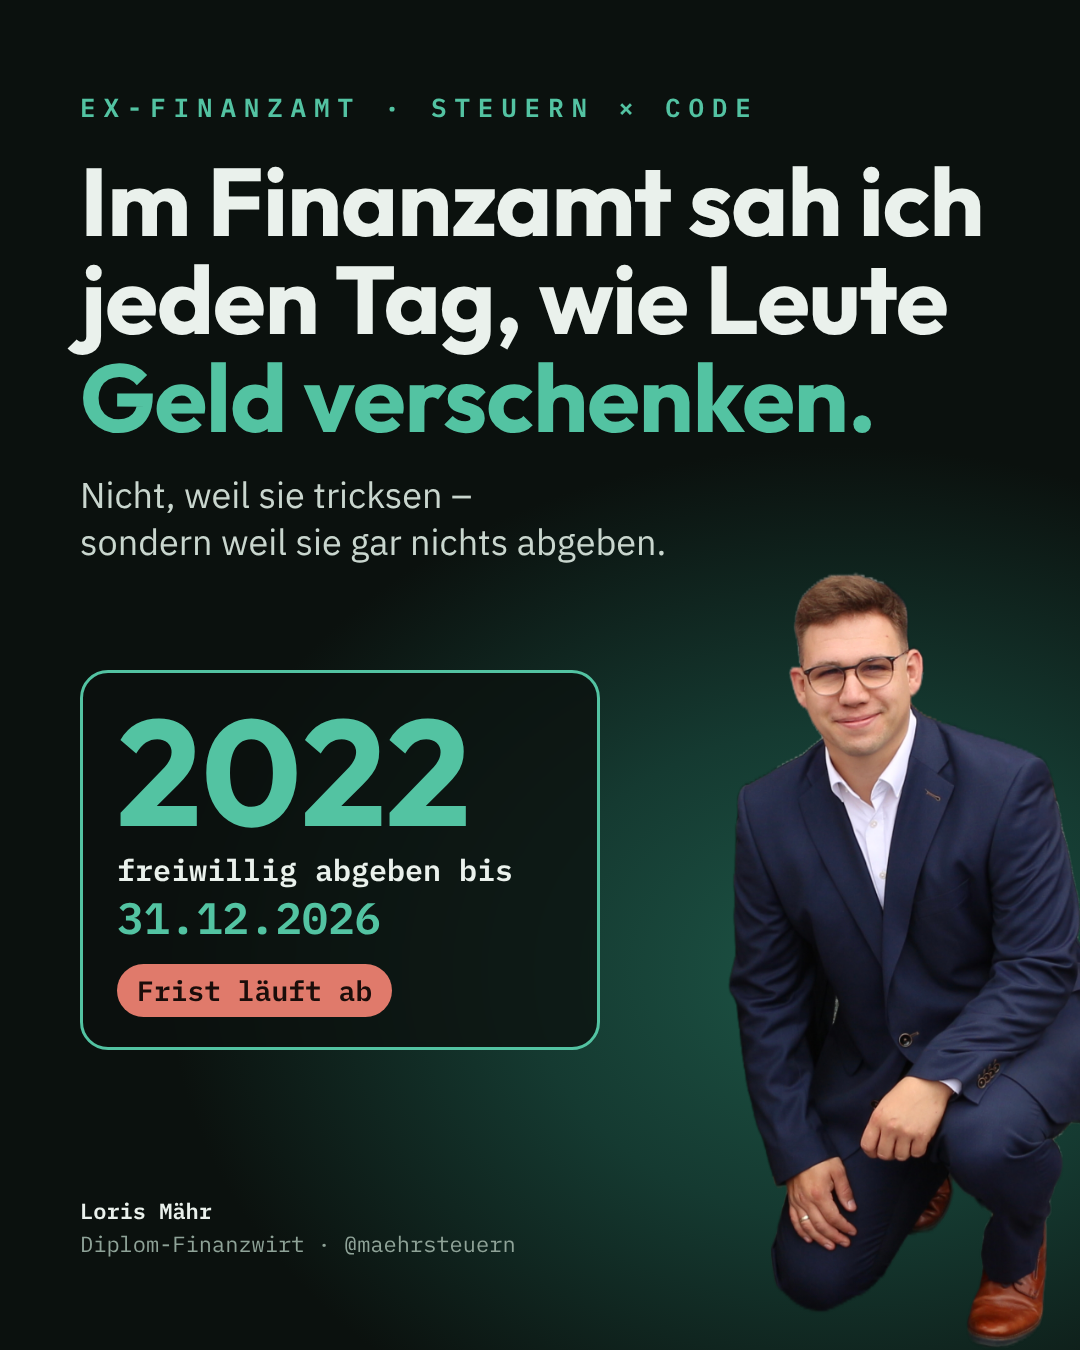
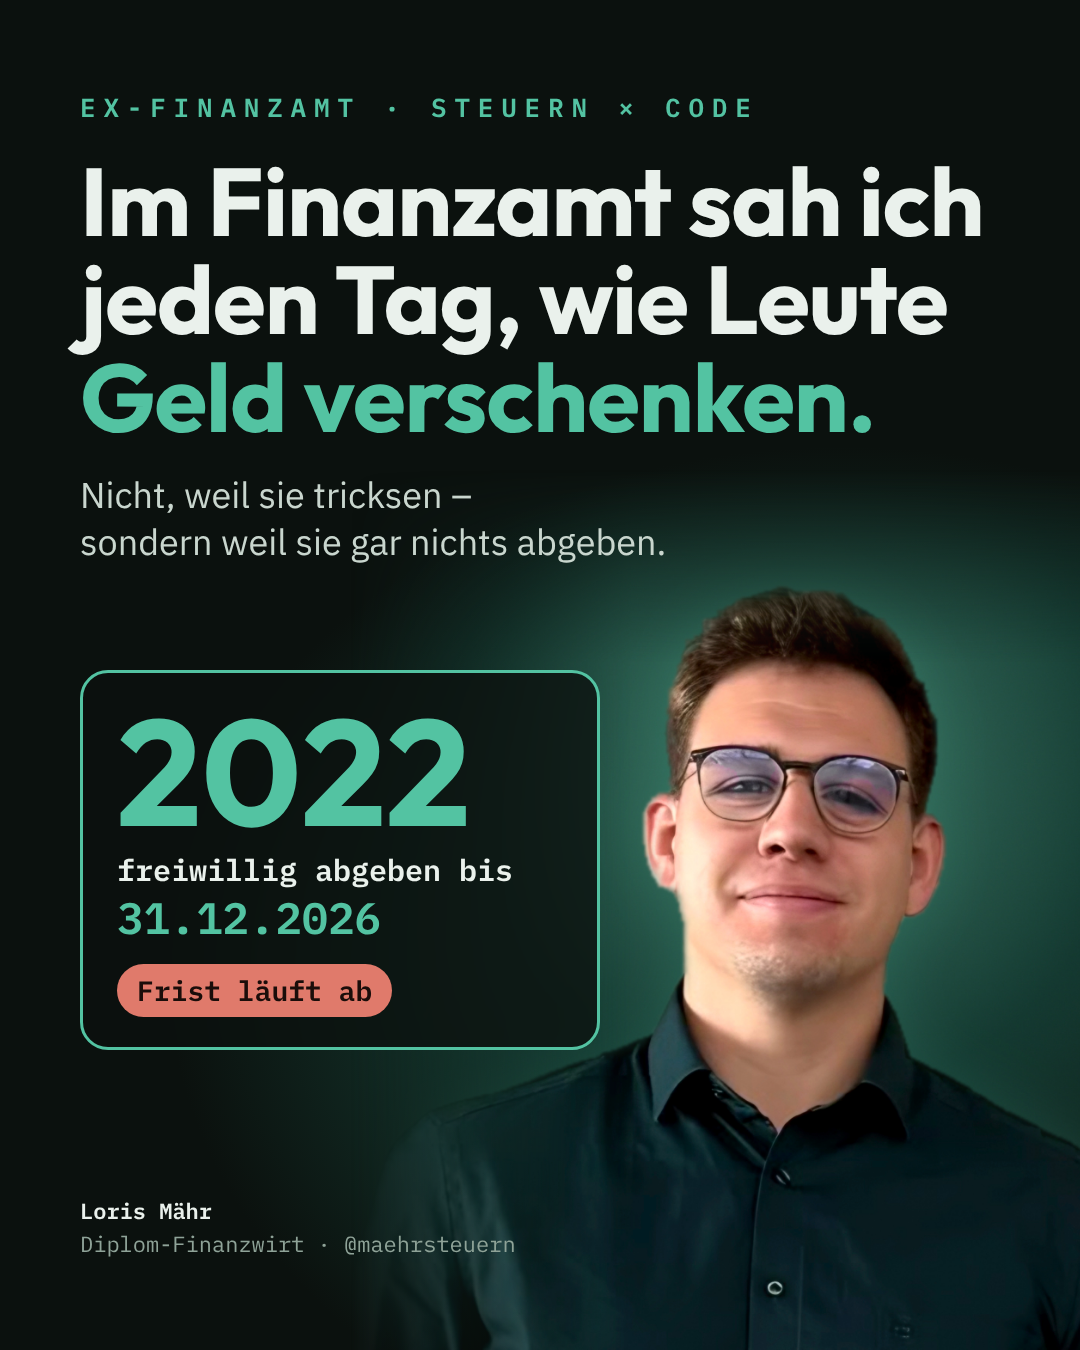
LinkedIn-Bild mit aktuellem Headshot (15.10.)
Claude-Session: https://claude.ai/code/session_01NYGauz67eVb3cVSYC53BS3

Changed region(s): [[0.4889, 0.4044, 1.0, 1.0], [0.4278, 0.8711, 0.5194, 1.0]]

diff --git a/vorlagen/system/linkedin_bild.html b/vorlagen/system/linkedin_bild.html
@@ -4,7 +4,7 @@
 @font-face{font-family:"Outfit";src:url("schriften/Outfit-Bold.ttf");font-weight:700}
 body{width:1080px;height:1350px;position:relative;
   background:radial-gradient(900px 700px at 78% 72%, #1d5546 0%, var(--bg2) 35%, var(--bg) 75%)}
-.foto{position:absolute;right:-40px;bottom:0;height:780px}
+.foto{position:absolute;right:-150px;bottom:0;width:880px;height:880px;object-fit:cover;-webkit-mask-image:linear-gradient(to right,transparent 0%,#000 32%),linear-gradient(to bottom,transparent 0%,#000 22%);-webkit-mask-composite:source-in;mask-composite:intersect}
 .oben{position:absolute;left:80px;top:90px;right:80px}
 .kicker{font-size:26px}
 h1{font-family:"Outfit",var(--sans);font-weight:700;font-size:96px;line-height:1.02;margin:28px 0 0;letter-spacing:-.01em}
@@ -18,7 +18,7 @@ h1 .a{color:var(--gruen)}
 .fuss{position:absolute;left:80px;bottom:90px;font-family:var(--mono);font-size:22px;line-height:1.5;color:var(--grau)}
 .fuss b{color:var(--text)}
 </style></head><body>
-<img class="foto" src="../../assets/marke/loris_aktuell_freisteller.png">
+<img class="foto" src="../../assets/marke/loris_headshot_1.jpg">
 <div class="oben">
   <div class="kicker">Ex-Finanzamt · Steuern × Code</div>
   <h1>Im Finanzamt sah ich jeden Tag, wie Leute <span class="a">Geld verschenken.</span></h1>
